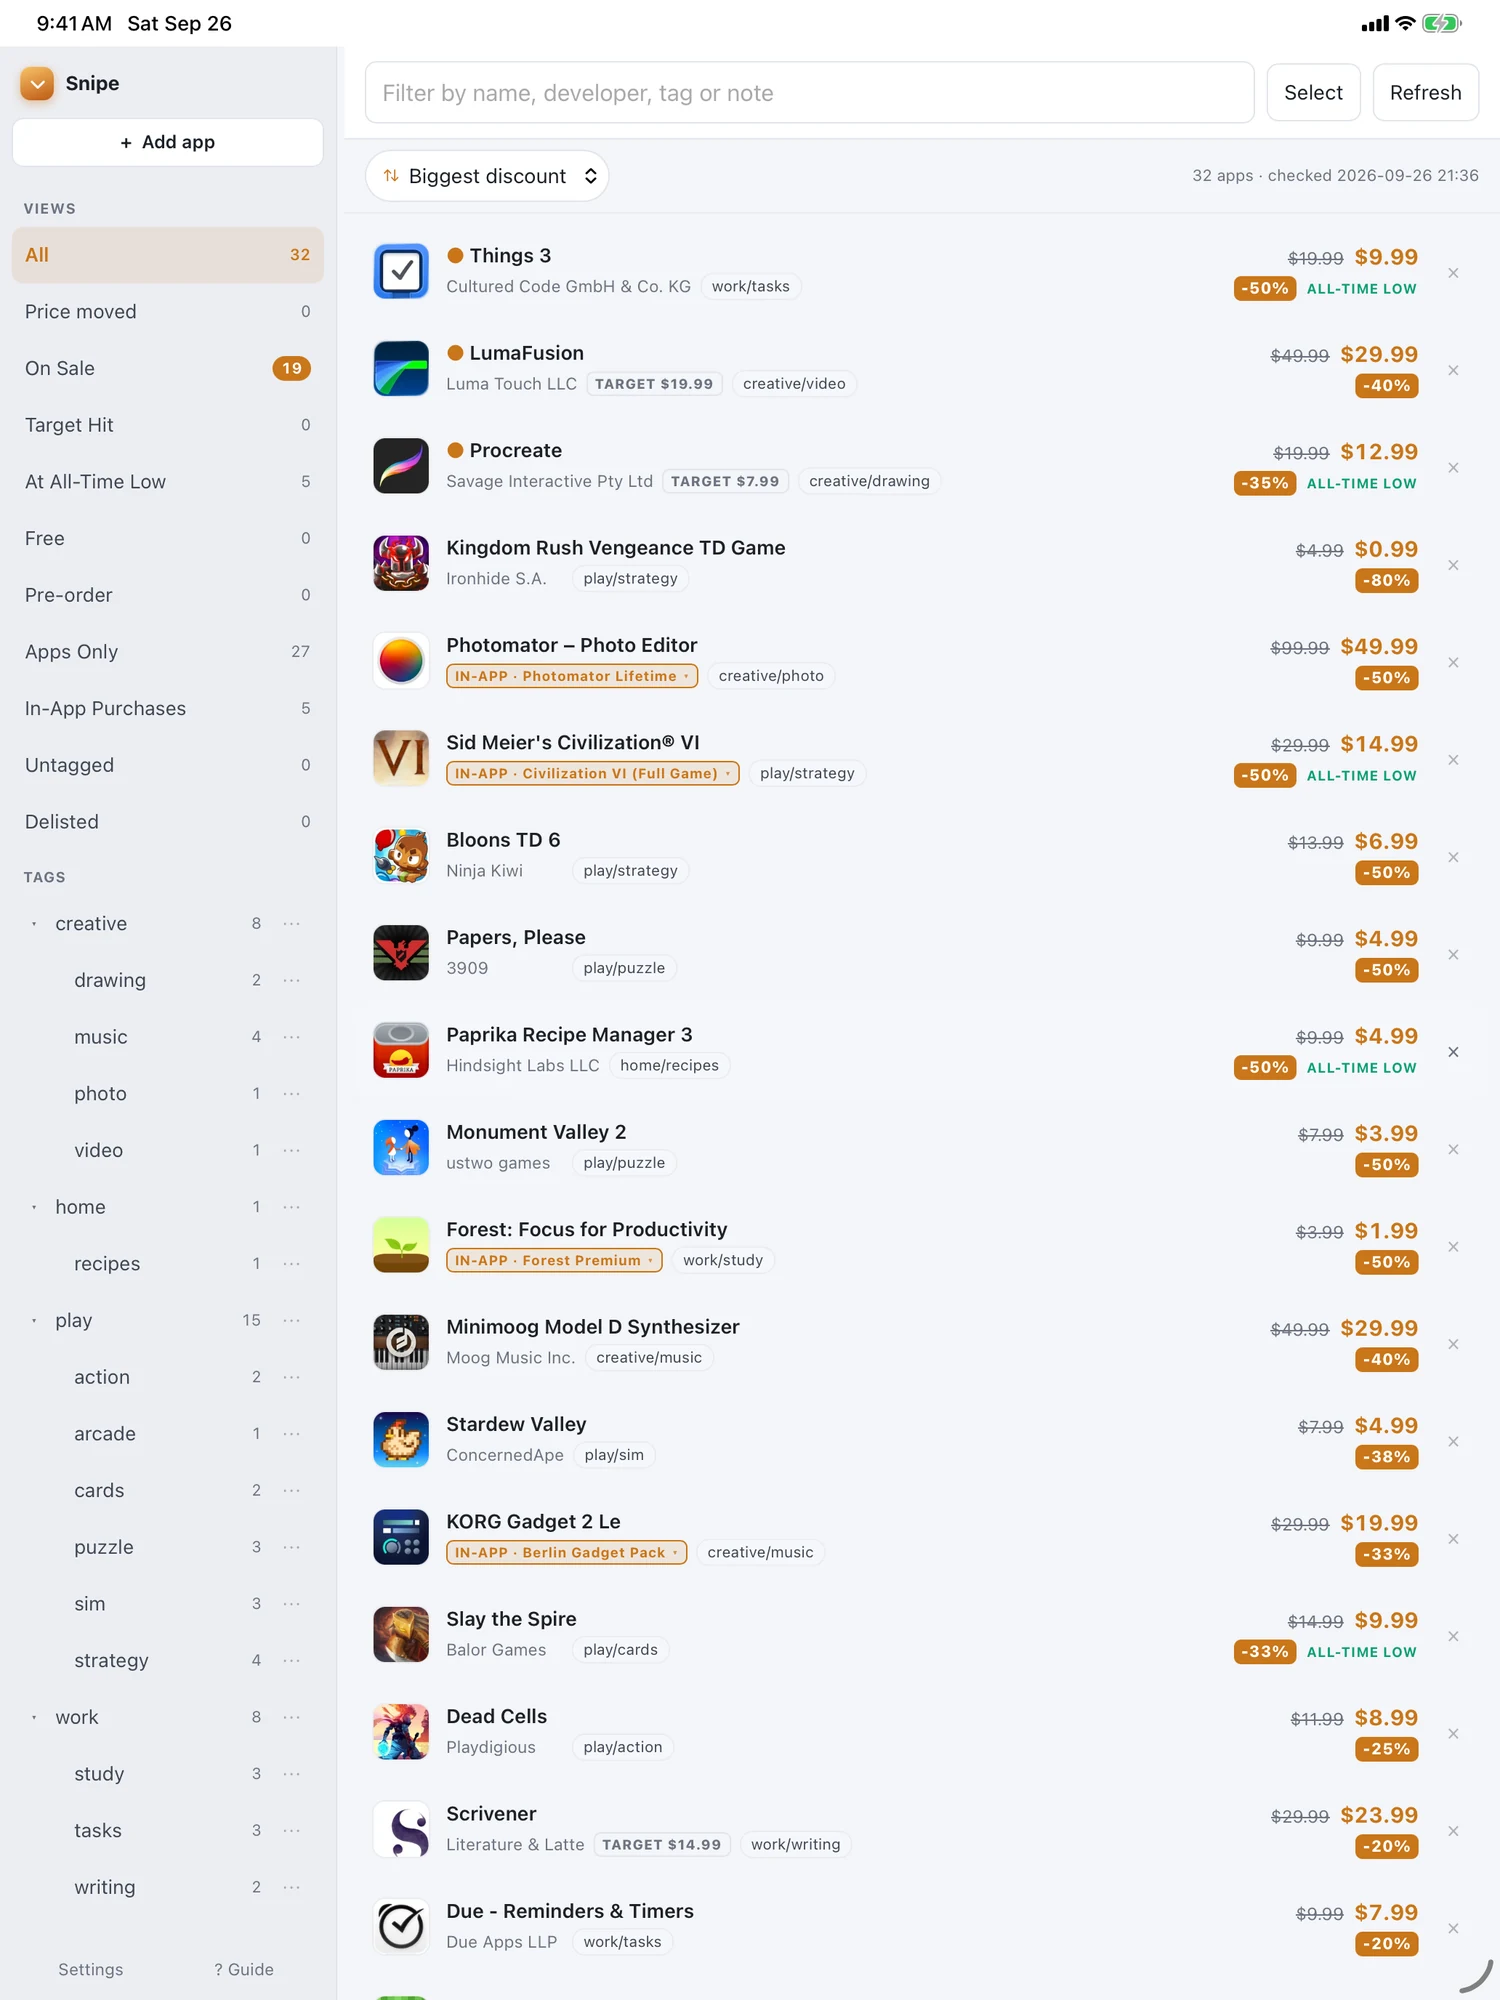
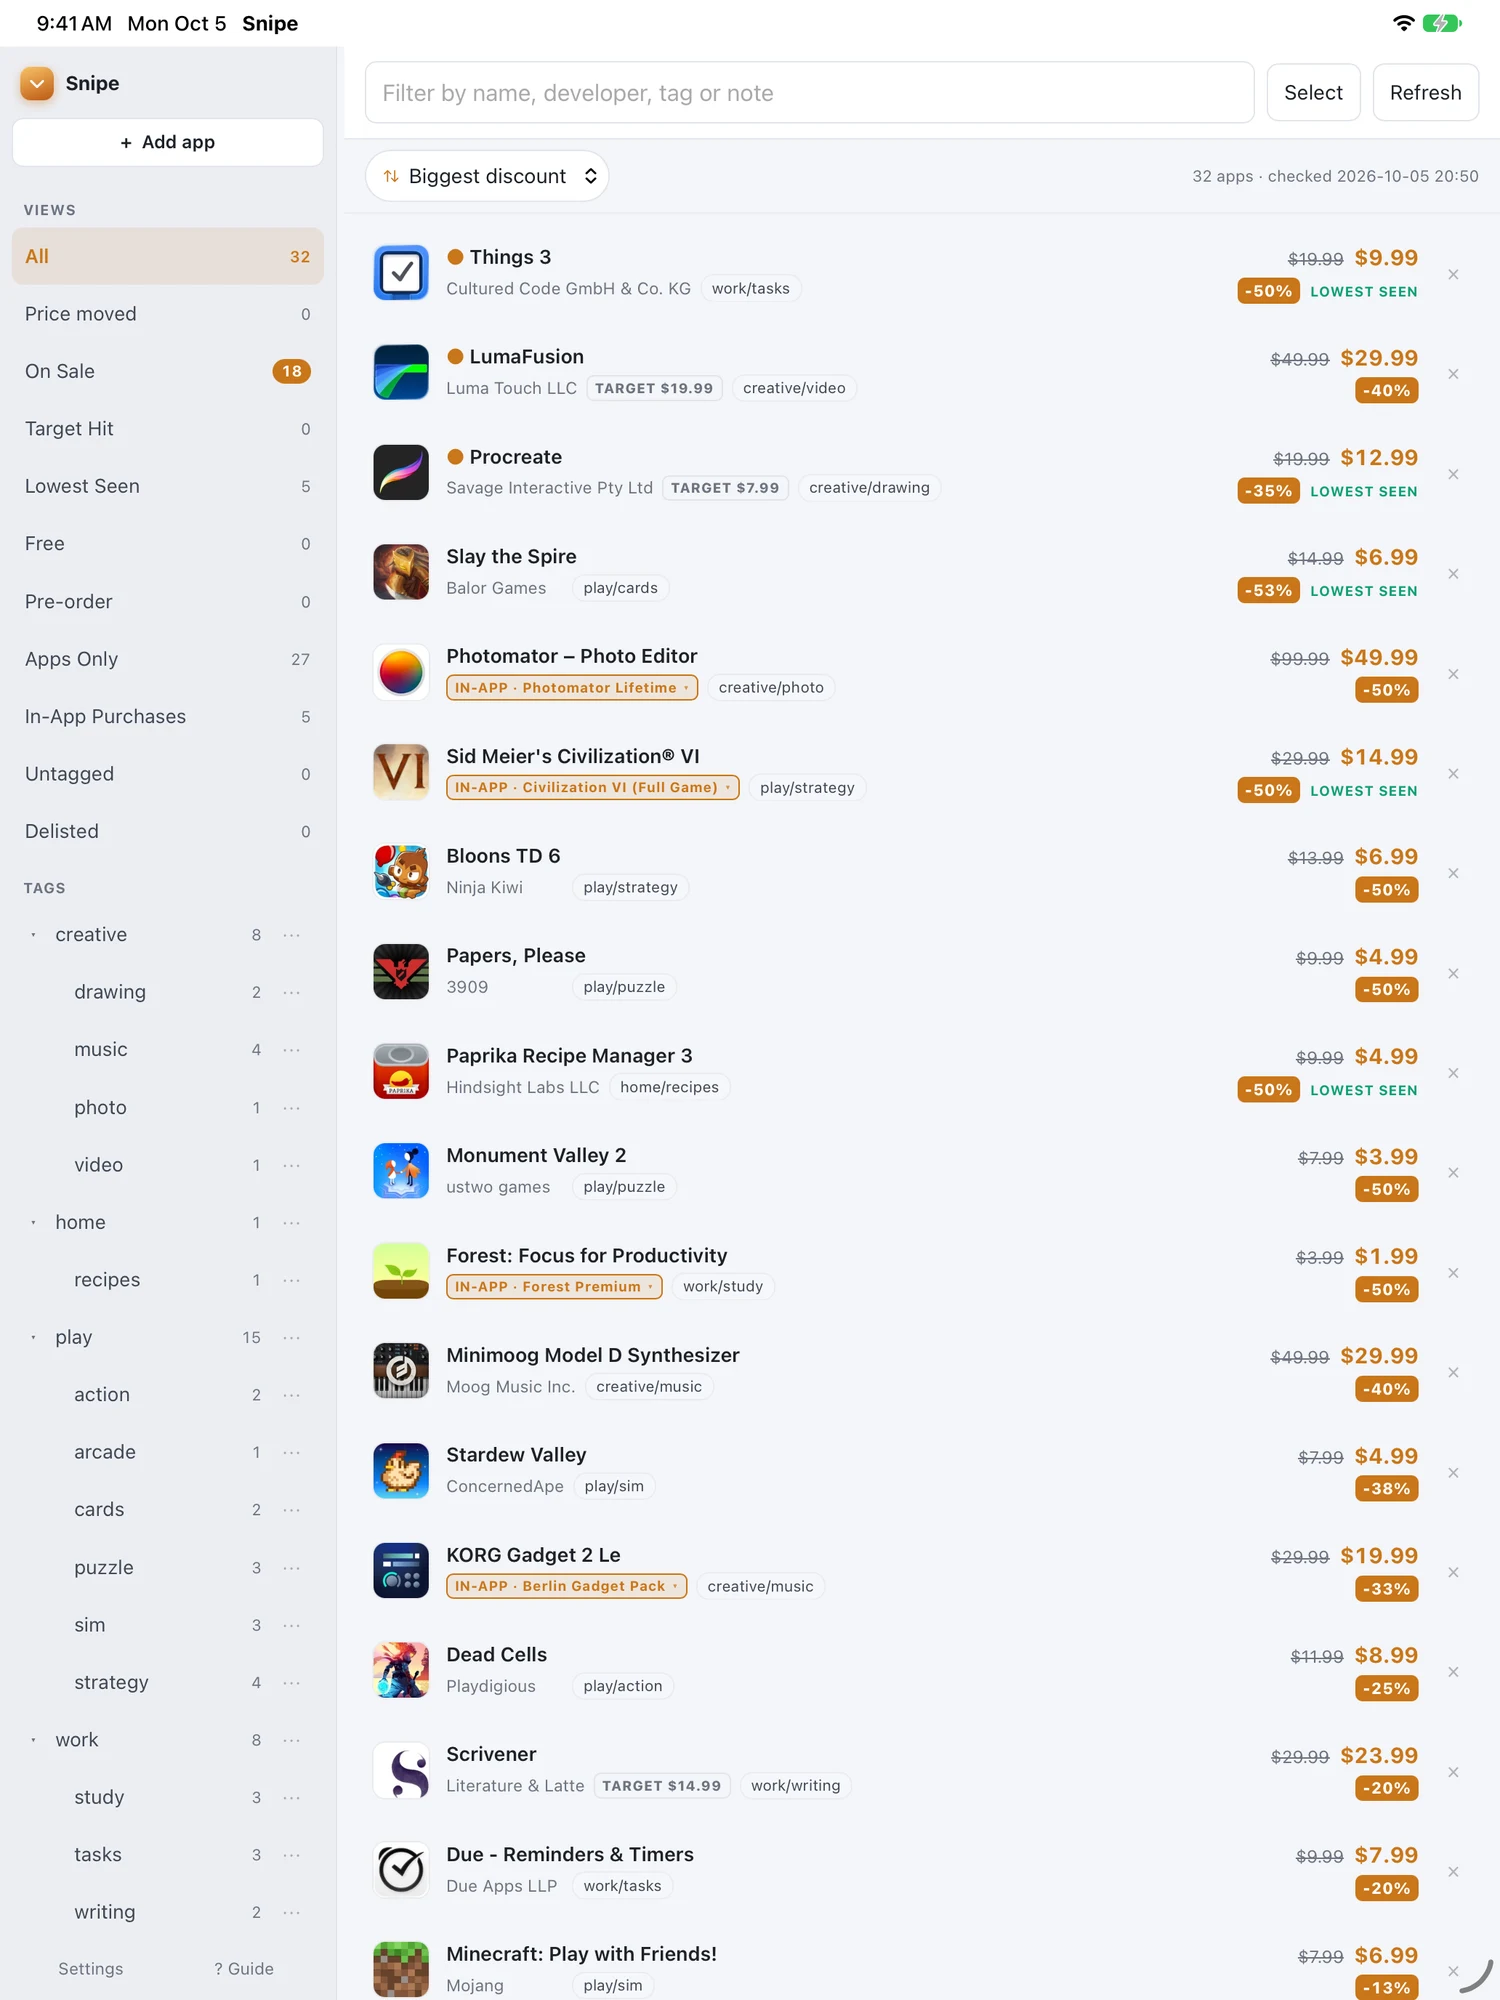
Say Lowest seen; reshoot screenshots

diff --git a/index.html b/index.html
@@ -357,7 +357,7 @@ footer .dc-mark{vertical-align:-3px}
           <div class="now">$9.99</div>
           <div class="pills">
             <span class="pill cut">−67%</span>
-            <span class="pill atl">All-time low</span>
+            <span class="pill atl">Lowest seen</span>
           </div>
         </div>
       </div>
@@ -424,7 +424,7 @@ footer .dc-mark{vertical-align:-3px}
       </p>
       <p>
         Then open anything you have been watching for a while. It shows what it costs now,
-        what it usually costs, the lowest price it has ever been, and the history behind them.
+        what it usually costs, the lowest price it has been seen at, and the history behind them.
       </p>
     </div>
     <figure class="show-fig">
@@ -458,7 +458,7 @@ footer .dc-mark{vertical-align:-3px}
       <picture>
         <source srcset="img/ipad-detail-dark.webp" media="(prefers-color-scheme: dark)">
         <img src="img/ipad-detail.webp" width="1500" height="2000" loading="lazy" decoding="async"
-             alt="Snipe on iPad: the tag sidebar, a list of apps with their discounts, and Procreate selected in the inspector — current, regular and all-time-low prices side by side, a price history chart, a Find its in-app purchases button, a target set at $7.99, and its tags.">
+             alt="Snipe on iPad: the tag sidebar, a list of apps with their discounts, and Procreate selected in the inspector — current, regular and lowest-seen prices side by side, a price history chart, a Find its in-app purchases button, a target set at $7.99, and its tags.">
       </picture>
     </figure>
   </div>
@@ -473,7 +473,7 @@ footer .dc-mark{vertical-align:-3px}
         sidebar with a live count beside it.
       </p>
       <p>
-        There are ready-made views too: everything on sale, everything at its lowest ever,
+        There are ready-made views too: everything on sale, everything at the lowest price seen,
         anything that has hit the price you named, and whatever you never got round to
         filing.
       </p>
@@ -482,7 +482,7 @@ footer .dc-mark{vertical-align:-3px}
       <picture>
         <source srcset="img/ipad-tags-dark.webp" media="(prefers-color-scheme: dark)">
         <img src="img/ipad-tags.webp" width="1500" height="2000" loading="lazy" decoding="async"
-             alt="Snipe on iPad: a sidebar of views (All, On Sale, Target Hit, At All-Time Low, In-App Purchases) above a nested tag tree with counts, beside the watchlist sorted by biggest discount.">
+             alt="Snipe on iPad: a sidebar of views (All, On Sale, Target Hit, Lowest Seen, In-App Purchases) above a nested tag tree with counts, beside the watchlist sorted by biggest discount.">
       </picture>
     </figure>
   </div>
@@ -497,7 +497,7 @@ footer .dc-mark{vertical-align:-3px}
         remembering what it saw.
       </p>
       <p>
-        So every app carries its regular price, its lowest price ever, and the shape of how
+        So every app carries its regular price, the lowest it has been seen at, and the shape of how
         it got there. One look tells you whether to buy now or keep waiting.
       </p>
     </div>
@@ -505,7 +505,7 @@ footer .dc-mark{vertical-align:-3px}
       <picture>
         <source srcset="img/iphone-detail-dark.webp" media="(prefers-color-scheme: dark)">
         <img src="img/iphone-detail.webp" width="660" height="1434" loading="lazy" decoding="async"
-             alt="Procreate in Snipe on iPhone: current $12.99, regular $19.99, all-time low $12.99 marked as now, a 35 percent discount, a price history chart, a Find its in-app purchases button, and an alert set for $7.99 or lower.">
+             alt="Procreate in Snipe on iPhone: current $12.99, regular $19.99, lowest seen $12.99 marked as now, a 35 percent discount, a price history chart, a Find its in-app purchases button, and an alert set for $7.99 or lower.">
       </picture>
     </figure>
   </div>
@@ -523,7 +523,7 @@ footer .dc-mark{vertical-align:-3px}
       <h3>It already knows the usual price</h3>
       <p>Apple publishes today's price and nothing else, so an app you just added has nothing
          to compare against. Snipe keeps a shared record of what apps have cost, so a new
-         app arrives already knowing its regular price and its lowest ever. It holds app
+         app arrives already knowing its regular price and the lowest it has been seen at. It holds app
          ids, dates and prices, and nothing about you.</p>
     </div>
     <div class="feat">
@@ -540,7 +540,7 @@ footer .dc-mark{vertical-align:-3px}
          it — no history required, so it works the day you add something.</p>
     </div>
     <div class="feat">
-      <span class="k">All-time low</span>
+      <span class="k">Lowest seen</span>
       <h3>Know if it gets better</h3>
       <p>A sale isn't always a good one. Snipe marks the price it has never seen
          beaten, so you know whether to buy or keep waiting.</p>
